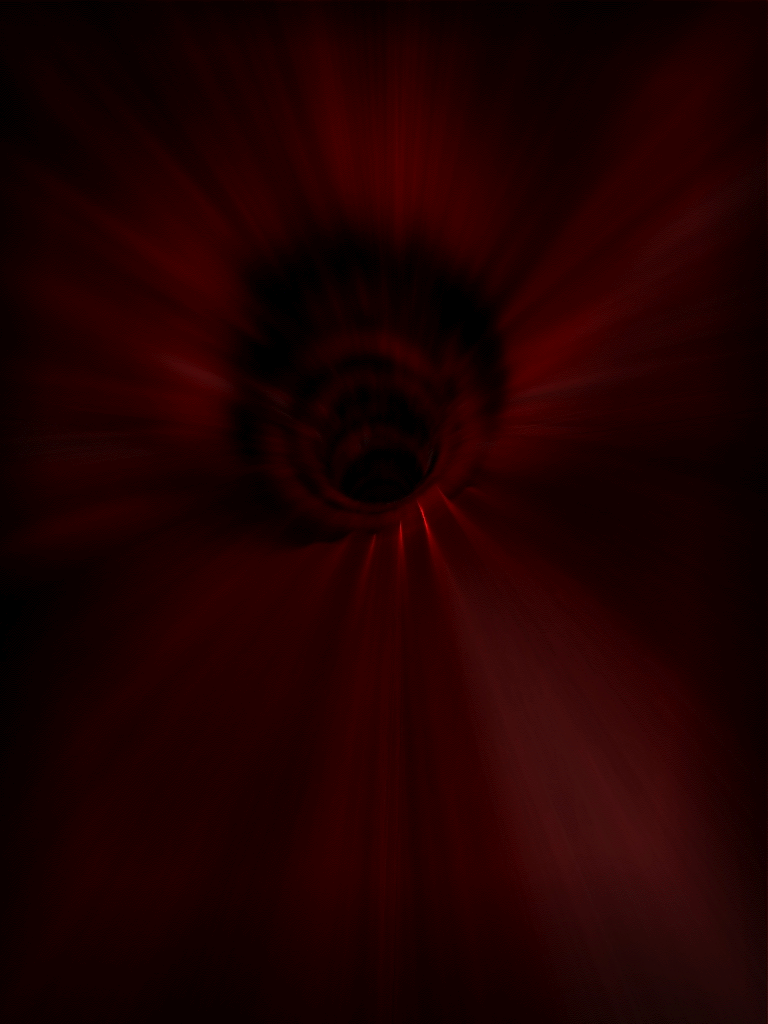
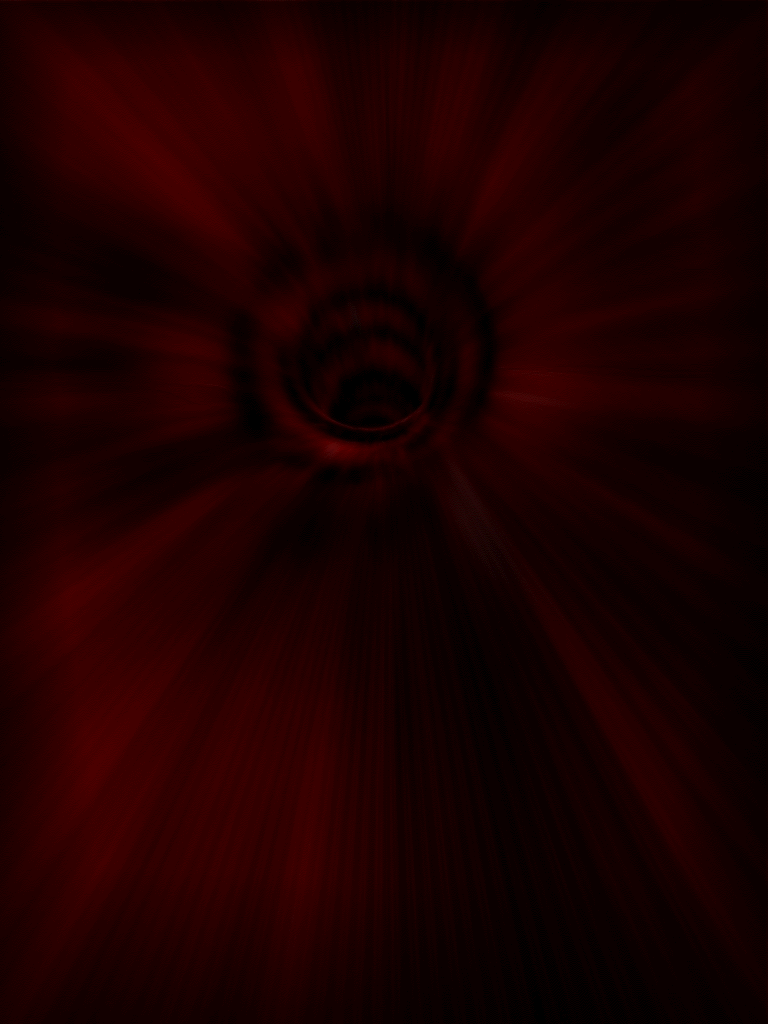
CODE COMMIT: May 9, 2014
Got Working: Animated BG
Next To Work On: Player Flapping

diff --git a/game.rb b/game.rb
@@ -24,17 +24,23 @@ class Player
 end
 
 class Background
+	attr_reader :images
 	def initialize(window)
 		@width = 768
 		@height = 1024
 		@images = []
-		(1..18).each do |n|
-			@images.push Gosu::Image.new(window, "/resources/images/background/#{n.to_i}.png", false)
-		end #STOPPED HERE!
+		(1..54).each do |n|
+			@images.push Gosu::Image.new(window, "resources/images/background/#{n.to_i}.png", false)
+		end
+		@imageIndex = 0
 	end
 	
 	def draw
-		@images.draw(0, 0, 1)
+		@images[@imageIndex].draw(0,0,1)
+		@imageIndex += 1
+		if @imageIndex == 53
+			@imageIndex = 0
+		end
 	end
 end
 
